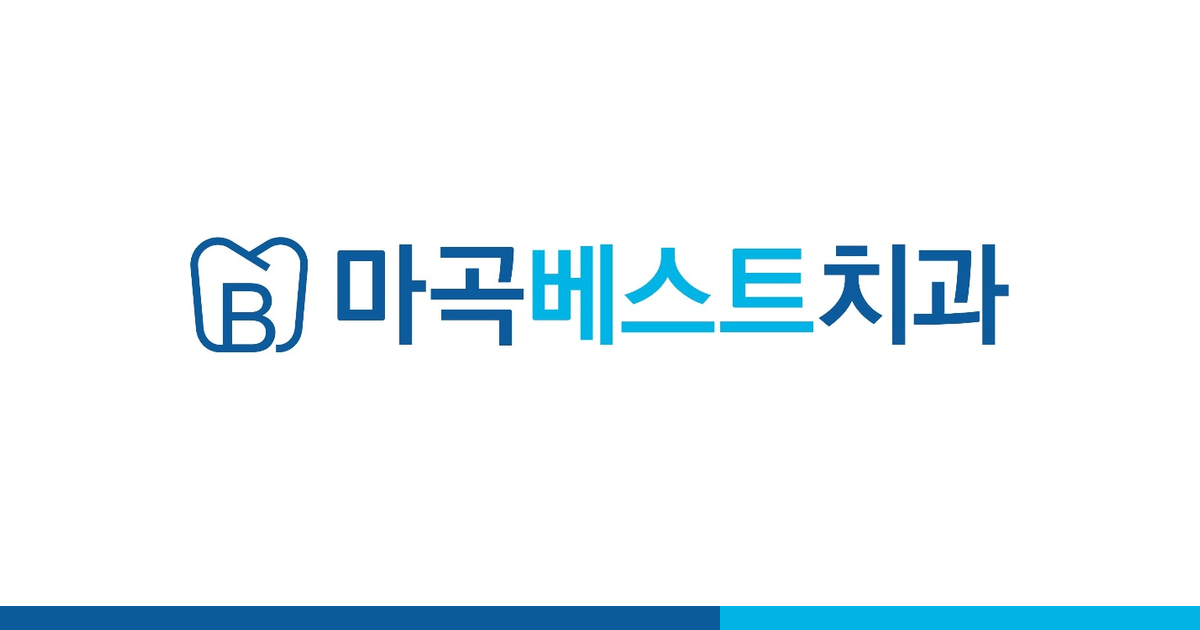
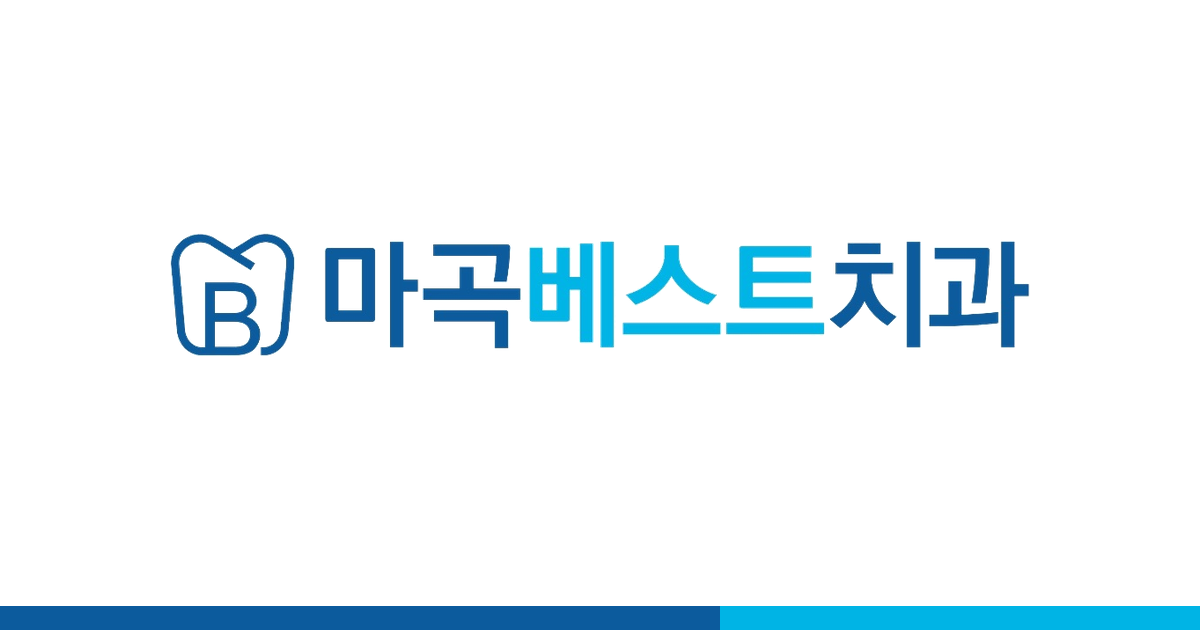
로고 누끼(흰 배경 제거, 화이트 언믹싱) + 푸터 화이트본·OG 재생성, 캐시버스팅 v=2

Changed region(s): [[0.1233, 0.3619, 0.8633, 0.573]]

diff --git a/src/components/layout.tsx b/src/components/layout.tsx
@@ -45,7 +45,7 @@ export function Head(meta: SeoMeta) {
       <meta property="og:description" content="${meta.description}" />
       <meta property="og:url" content="${canonical}" />
       <meta property="og:locale" content="ko_KR" />
-      <meta property="og:image" content="${SITE_URL}/static/img/og.png" />
+      <meta property="og:image" content="${SITE_URL}/static/img/og.png?v=2" />
       <meta property="og:image:width" content="1200" />
       <meta property="og:image:height" content="630" />
       <meta property="og:image:alt" content="${CLINIC.name} — ${CLINIC.directions}" />
@@ -63,7 +63,7 @@ export function Head(meta: SeoMeta) {
       <meta name="twitter:card" content="summary_large_image" />
       <meta name="twitter:title" content="${meta.title}" />
       <meta name="twitter:description" content="${meta.description}" />
-      <meta name="twitter:image" content="${SITE_URL}/static/img/og.png" />
+      <meta name="twitter:image" content="${SITE_URL}/static/img/og.png?v=2" />
 
       <!-- Favicon -->
       <link rel="icon" type="image/png" href="/static/img/favicon.png" />
@@ -193,7 +193,7 @@ function Header() {
     <header class="site-header">
       <div class="container">
         <a href="/" class="logo" aria-label="${CLINIC.name} 홈">
-          <img src="/static/img/logo-h.png" alt="마곡베스트치과 로고" class="logo-img" width="1024" height="177" />
+          <img src="/static/img/logo-h.png?v=2" alt="마곡베스트치과 로고" class="logo-img" width="977" height="141" />
         </a>
 
         <nav aria-label="주요 메뉴">
@@ -308,7 +308,7 @@ function Footer() {
         <div class="footer-top">
           <div class="footer-brand">
             <div class="logo">
-              <img src="/static/img/logo-h-white.png" alt="마곡베스트치과 로고" class="logo-img" width="1024" height="177" loading="lazy" />
+              <img src="/static/img/logo-h-white.png?v=2" alt="마곡베스트치과 로고" class="logo-img" width="977" height="141" loading="lazy" />
             </div>
             <p>${CLINIC.mission}<br />${CLINIC.directions}에 위치한 ${CLINIC.region} 강서구의 환자 중심 치과입니다.</p>
           </div>
